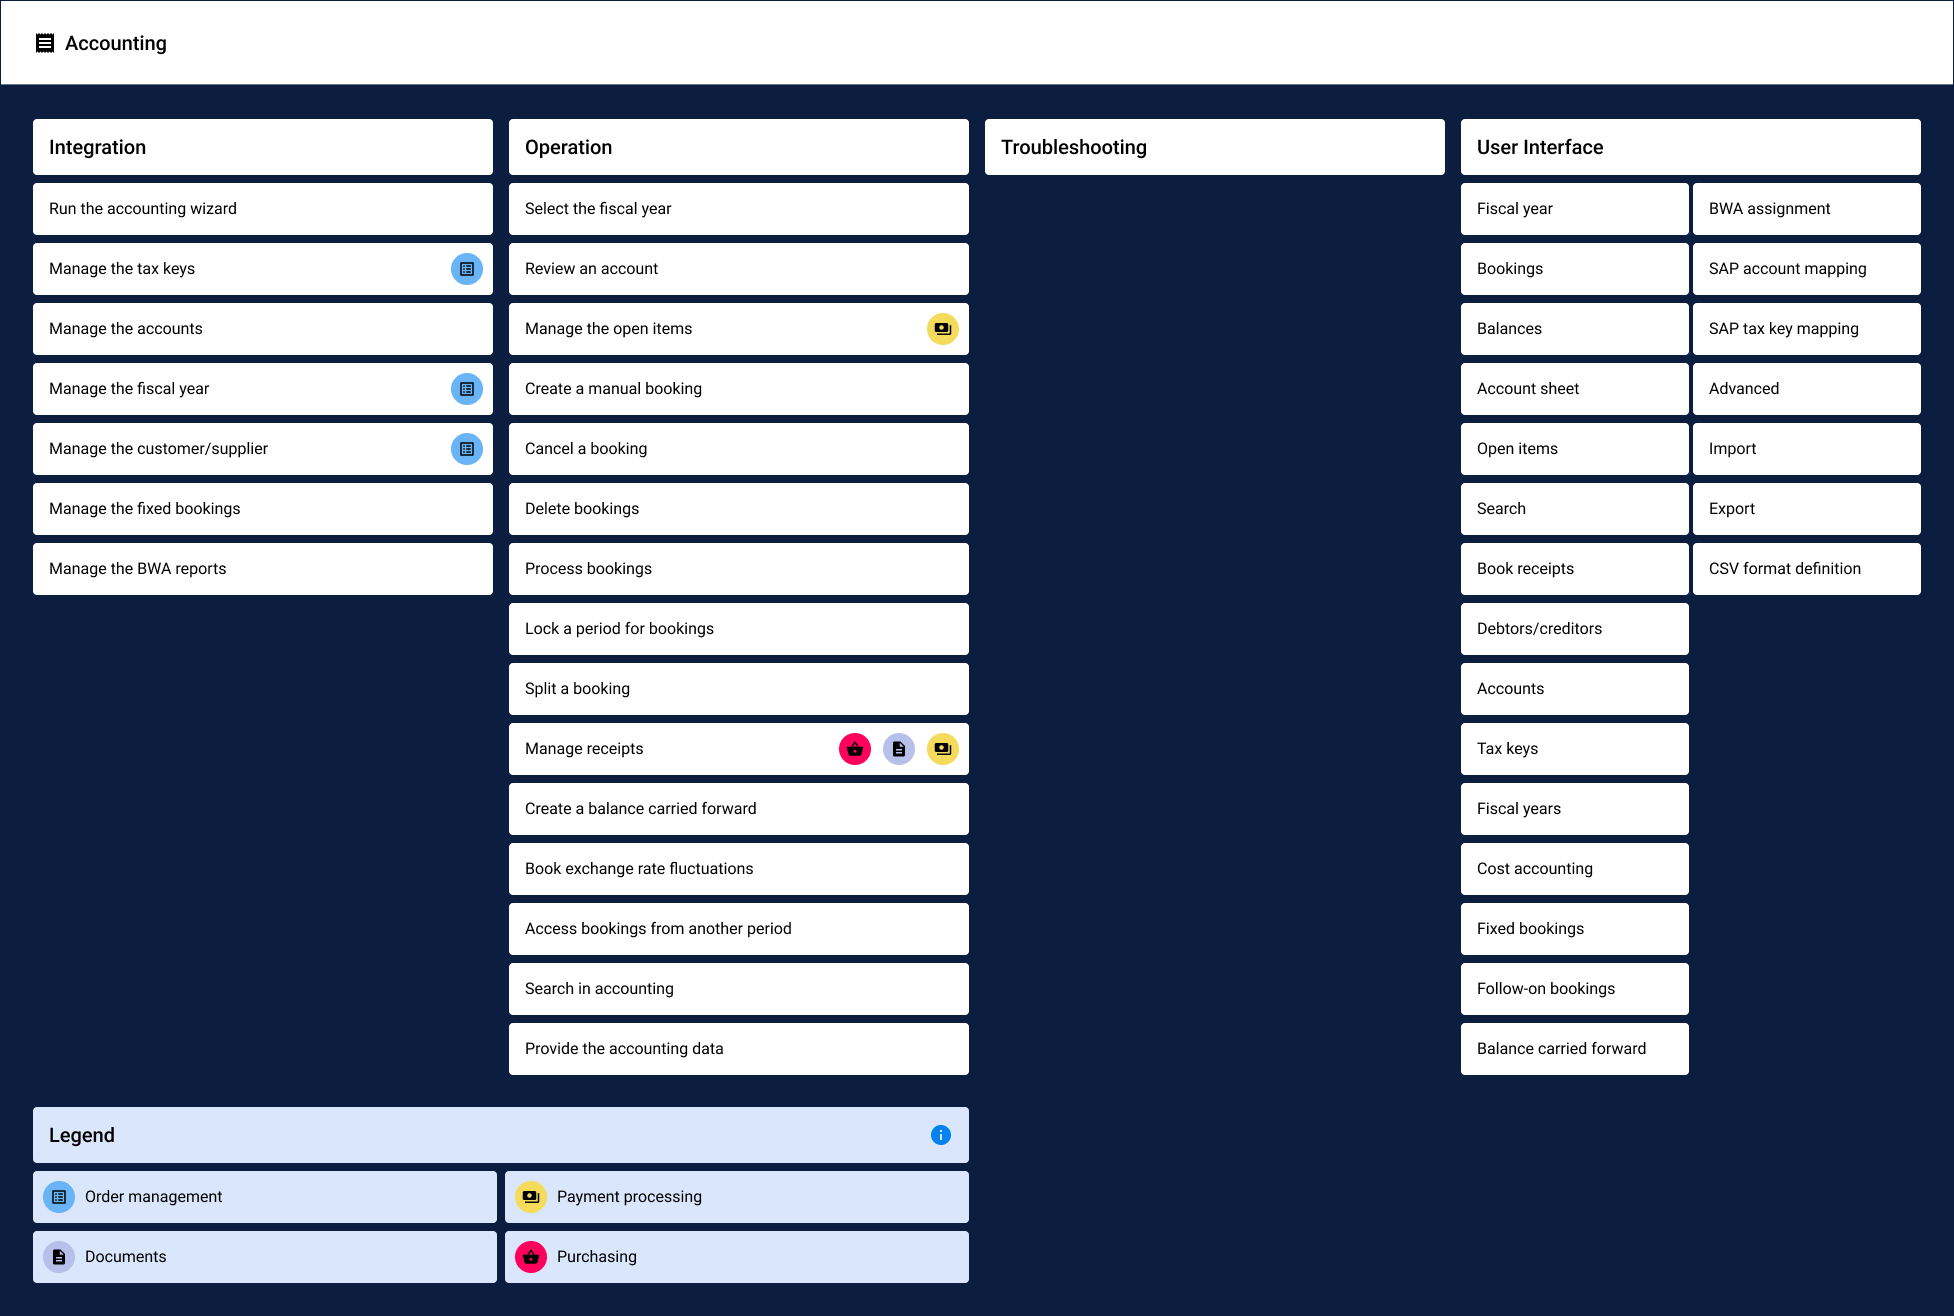
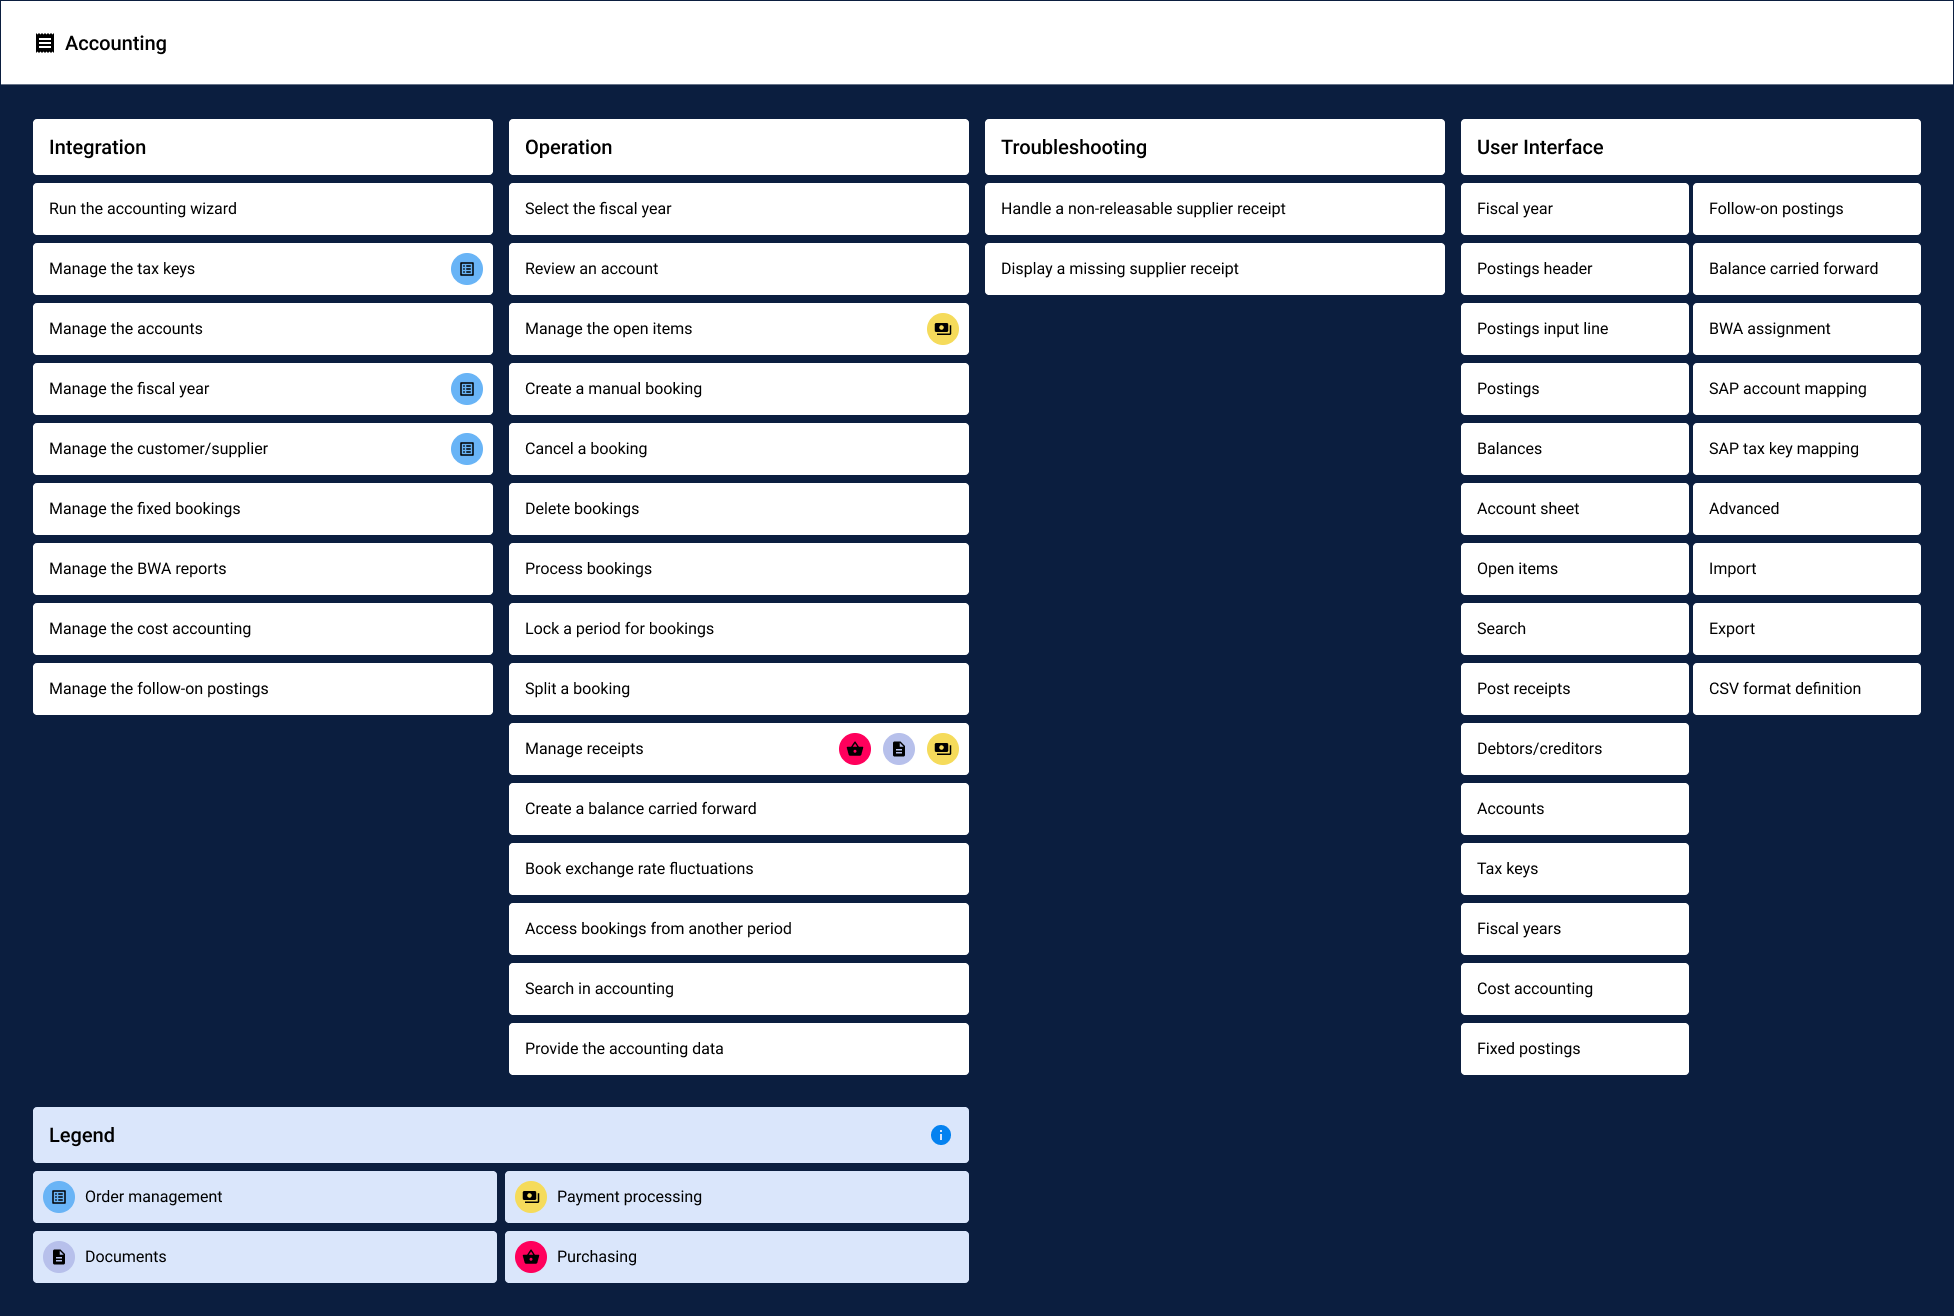
ACD-572
Review UI, Troubleshooting

diff --git a/RetailSuiteAccounting/UserInterface/00_UserInterface.md b/RetailSuiteAccounting/UserInterface/00_UserInterface.md
@@ -7,16 +7,17 @@
 - [Post](./01_Book.md)
 
 
-- [Postings header](01_Header.md)
+- [Postings header](./01_Header.md)
   - [Cash book takeover](./01_Header.md#cash-book-takeover)
   - [Bank data takeover](./01_Header.md#bank-data-takeover)
+    - [Split posting](./01_Header.md#split-posting)
   - [Process](./01_Header.md#process)
   - [Delete](./01_Header.md#delete)
   - [Lock months](./01_Header.md#lock-months)
   - [Balance carried forward](./01_Header.md#balance-carried-forward)
   - [Foreign currency wizard](./01_Header.md#foreign-currency-wizard)
   - [Supplier receipts](./01_Header.md#supplier-receipts)
-    - [Acquire a receipt](./01_Header.md#acquire-a-receipt)
+    - [Acquire a supplier receipt](./01_Header.md#acquire-a-supplier-receipt)
     - [Overview](./01_Header.md#overview)
     - [Financial accounting takeover](./01_Header.md#financial-accounting-takeover)
   - [Account balance](./01_Header.md#account-balance)
@@ -31,13 +32,13 @@
   - [Debtors/creditors](./01_Header.md#debtorscreditors)
 
 
-- [Postings input line](01_InputLine.md)
-  - [Set amount 1](01_InputLine.md#set-amount-1)
-  - [Set amount 2](01_InputLine.md#set-amount-2)
-  - [Split posting](01_InputLine.md#split-posting)
-  - [Attached document](01_InputLine.md#attached-document)
-  - [Attach document](01_InputLine.md#attach-document)
-    - [Upload file](01_InputLine.md#upload-file)
+- [Postings input line](./01_InputLine.md)
+  - [Set amount 1](./01_InputLine.md#set-amount-1)
+  - [Set amount 2](./01_InputLine.md#set-amount-2)
+  - [Split posting](./01_InputLine.md#split-posting)
+  - [Attached document](./01_InputLine.md#attached-document)
+  - [Attach document](./01_InputLine.md#attach-document)
+    - [Upload file](./01_InputLine.md#upload-file)
 
 
 - [POSTINGS](./01a_Bookings.md)
@@ -68,27 +69,28 @@
 - [DEBTORS/CREDITORS](./02a_DebtorsCreditors.md)
 
   - [Customer/supplier list](./02a_DebtorsCreditors.md#customersupplier-list)
+    - [Customer/supplier context menu](./02a_DebtorsCreditors.md#customersupplier-context-menu)
 
   - [Create customer/supplier](./02a_DebtorsCreditors.md#create-customersupplier)
-    - [Address/contact](./02a_DebtorsCreditors.md#addresscontact-1)
+    - [Address/contact](./02a_DebtorsCreditors.md#addresscontact)
     - [Delivery addresses](./02a_DebtorsCreditors.md#delivery-addresses)
+    - [Invoicing](./02a_DebtorsCreditors.md#invoicing)
+    - [Additional fields](./02a_DebtorsCreditors.md#additional-fields)
+    - [Drop shipping](./02a_DebtorsCreditors.md#drop-shipping)
+    - [CRM information](./02a_DebtorsCreditors.md#crm-information)
+    - [Notes](./02a_DebtorsCreditors.md#notes)
+
+  - [Customer/supplier "Number"](./02a_DebtorsCreditors.md#customersupplier-number)
+    - [Address/contact](./02a_DebtorsCreditors.md#addresscontact-1)
+    - [Further addresses](./02a_DebtorsCreditors.md#further-addresses)
     - [Invoicing](./02a_DebtorsCreditors.md#invoicing-1)
     - [Additional fields](./02a_DebtorsCreditors.md#additional-fields-1)
-    - [Drop shipping](./02a_DebtorsCreditors.md#drop-shipping-1)
-    - [CRM information](./02a_DebtorsCreditors.md#crm-information-1)
-    - [Notes](./02a_DebtorsCreditors.md#notes-1)
-
-  - [Customer/supplier (number)](./02a_DebtorsCreditors.md#customersupplier-number)
-    - [Address/contact](./02a_DebtorsCreditors.md#addresscontact-2)
-    - [Further addresses](./02a_DebtorsCreditors.md#further-addresses)
-    - [Invoicing](./02a_DebtorsCreditors.md#invoicing-2)
-    - [Additional fields](./02a_DebtorsCreditors.md#additional-fields-2)
     - [Content](./02a_DebtorsCreditors.md#content)
     - [Stock history](./02a_DebtorsCreditors.md#stock-history)
     - [Statistics](./02a_DebtorsCreditors.md#statistics)
-    - [Drop shipping](./02a_DebtorsCreditors.md#drop-shipping-2)
-    - [CRM information](./02a_DebtorsCreditors.md#crm-information-2)
-    - [Notes](./02a_DebtorsCreditors.md#notes-2)
+    - [Drop shipping](./02a_DebtorsCreditors.md#drop-shipping-1)
+    - [CRM information](./02a_DebtorsCreditors.md#crm-information-1)
+    - [Notes](./02a_DebtorsCreditors.md#notes-1)
 
   - [Loyalty cards](./02a_DebtorsCreditors.md#loyalty-cards)
 
@@ -102,14 +104,14 @@
 
 - [COST ACCOUNTING](./02e_CostAccounting.md)
   - [Cost center](./02e_CostAccounting.md#cost-center)
-    - [Allocation table](./02e_CostAccounting.md#cost-unit#allocation-table)
-  - [Cost unit](./02e_CostAccounting.md#cost-unit)
-    - [Select address](./02e_CostAccounting.md#cost-unit#select-address)
-    - [ProfitCenter](./02e_CostAccounting.md#cost-unit#profitCenter)
-  - [Print cost center/unit](./02e_CostAccounting.md#cost-unit#print-cost-centerunit)
+  - [Cost object](./02e_CostAccounting.md#cost-object)
+  - [Print cost center/object](./02e_CostAccounting.md#print-cost-centerobject)
+    - [Allocation table](./02e_CostAccounting.md#allocation-table)
+    - [Select address](./02e_CostAccounting.md#select-address)
+    - [ProfitCenter](./02e_CostAccounting.md#profitcenter)
 
 - [FIXED POSTINGS](./02f_FixedBookings.md)
-  - [Fixed posting batch name](./02f_FixedBookings.md#fixed-booking-batch-name)
+  - [Fixed posting batch name](./02f_FixedBookings.md#fixed-booking--batch)
 
 - [FOLLOW-ON POSTINGS](./02g_FollowOnBookings.md)
 
@@ -117,10 +119,10 @@
 
 - [BWA ASSIGNMENT](./02i_BWAAssignment.md)
   - [Copy from predefined system report](./02i_BWAAssignment.md#copy-from-predefined-system-report)
-  - [Create BWA](./02i_BWAAssignment.md#create-BWA)
-  - [Edit BWA](./02i_BWAAssignment.md#edit-BWA)
-  - [Create report lines](./02i_BWAAssignment.md#create-report-lines)
-  - [Edit report lines](./02i_BWAAssignment.md#edit-report-lines)
+  - [Create report](./02i_BWAAssignment.md#create-report)
+  - [Edit "Report ID"](./02i_BWAAssignment.md#edit-report-id)
+  - [Create report line](./02i_BWAAssignment.md#create-report-line)
+  - [Edit "Report line ID"](./02i_BWAAssignment.md#edit-report-line-id)
 
 - [SAP ACCOUNT MAPPING](./02j_SAPAccountMapping.md)
 
@@ -133,30 +135,81 @@
 
 - [IMPORT](./03a_Import.md)
   - [Compeso 7.X](./03a_Import.md#compeso-7x)
+    - [Compeso 7.X: Step 1](./03a_Import.md#compeso-7X-step-1)
+    - [Compeso 7.X: Step 2](./03a_Import.md#compeso-7x-step-2)
   - [CSV](./03a_Import.md#csv)
+    - [CSV: Step 1](./03a_Import.md#csv-step-1)
+    - [CSV: Step 2](./03a_Import.md#csv-step-2)
+    - [CSV: Step 3](./03a_Import.md#csv-step-3)
+    - [CSV: Step 4](./03a_Import.md#csv-step-4)
+    - [CSV: Step 5](./03a_Import.md#csv-step-5)
   - [CSV LS-Motor](./03a_Import.md#csv-ls-motor)
+    - [CSV LS-Motor: Step 1](./03a_Import.md#csv-ls-motor-step-1)
+    - [CSV LS-Motor: Step 2](./03a_Import.md#csv-ls-motor-step-2)
   - [GDI](./03a_Import.md#gdi)
+    - [GDI: Step 1](./03a_Import.md#gdi-step-1)
+    - [GDI: Step 2](./03a_Import.md#gdi-step-2)
+    - [GDI: Step 3](./03a_Import.md#gdi-step-3)
+    - [GDI: Step 4](./03a_Import.md#gdi-step-4)
+    - [GDI: Step 5](./03a_Import.md#gdi-step-5)
   - [openTRANS](./03a_Import.md#opentrans)
+    - [openTRANS: Step 1](./03a_Import.md#opentrans-step-1)
+    - [openTRANS: Step 2](./03a_Import.md#opentrans-step-2)
   - [Schilling Accounting](./03a_Import.md#schilling-accounting)
+    - [Schilling Accounting: Step 1](./03a_Import.md#schilling-accounting-step-1)
+    - [Schilling Accounting: Step 2](./03a_Import.md#schilling-accounting-step-2)
 
-  - [Import/export definitions](./03a_Import.md#importexport-definitions)
+    - [Import/export definitions](./03a_Import.md#importexport-definitions)
+    - [Select file](./03a_Import.md#select-file)
 
 - [EXPORT](./03b_Export.md)
   - [BMD](./03b_Export.md#bmd)
+    - [BMD: Step 1](./03b_Export.md#bmd-step-1)
+    - [BMD: Step 2](./03b_Export.md#bmd-step-2)
+    - [BMD: Step 3](./03b_Export.md#bmd-step-3)
     - [BMD tax mapping](./03b_Export.md#bmd-tax-mapping)
   - [CSV](./03b_Export.md#csv)
+    - [CSV: Step 1](./03b_Export.md#csv-step-1)
+    - [CSV: Step 2](./03b_Export.md#csv-step-2)
+    - [CSV: Step 3](./03b_Export.md#csv-step-3)
   - [DATEV CSV](./03b_Export.md#datev-csv)
+    - [DATEV CSV: Step 1](./03b_Export.md#datev-csv-step-1)
+    - [DATEV CSV: Step 2](./03b_Export.md#datev-csv-step-2)
+    - [DATEV CSV: Step 3](./03b_Export.md#datev-csv-step-3)
   - [GDI](./03b_Export.md#gdi)
-  - [GDPDU export](./03b_Export.md#gdpdu-export)
+    - [GDI: Step 1](./03b_Export.md#gdi-step-1)
+    - [GDI: Step 2](./03b_Export.md#gdi-step-2)
+    - [GDI: Step 3](./03b_Export.md#gdi-step-3)
+  - [GDPdU export](./03b_Export.md#gdpdu-export)
+    - [GDPdU export: Step 1](./03b_Export.md#gdpdu-export-step-1)
+    - [GDPdU export: Step 2](./03b_Export.md#gdpdu-export-step-2)
+    - [GDPdU export: Step 3](./03b_Export.md#gdpdu-export-step-3)
   - [Open items](./03b_Export.md#open-items)
-  - [Balance lists](./03b_Export.md#balance-lists)
+    - [Open items: Step 1](./03b_Export.md#open-items-step-1)
+    - [Open items: Step 2](./03b_Export.md#open-items-step-2)
+    - [Open items: Step 3](./03b_Export.md#open-items-step-3)
+  - [Balance list](./03b_Export.md#balance-list)
+    - [Balance list: Step 1](./03b_Export.md#balance-list-step-1)
+    - [Balance list: Step 2](./03b_Export.md#balance-list-step-2)
+    - [Balance list: Step 3](./03b_Export.md#balance-list-step-3)
   - [SALDEN.DAT](./03b_Export.md#salden-dat)
+    - [SALDEN.DAT: Step 1](./03b_Export.md#saldendat-step-1)
+    - [SALDEN.DAT: Step 2](./03b_Export.md#saldendat-step-2)
+    - [SALDEN.DAT: Step 3](./03b_Export.md#saldendat-step-3)
   - [SAP](./03b_Export.md#sap)
+    - [SAP: Step 1](./03b_Export.md#sap-step-1)
+    - [SAP: Step 2](./03b_Export.md#sap-step-2)
+    - [SAP: Step 3](./03b_Export.md#sap-step-3)
   - [Varial](./03b_Export.md#varial)
+    - [Varial: Step 1](./03b_Export.md#varial-step-1)
+    - [Varial: Step 2](./03b_Export.md#varial-step-2)
+    - [Varial: Step 3](./03b_Export.md#varial-step-3)
   - [Zahlwerk](./03b_Export.md#zahlwerk)
-
+    - [Zahlwerk: Step 1](./03b_Export.md#zahlwerk-step-1)
+    - [Zahlwerk: Step 2](./03b_Export.md#zahlwerk-step-2)
+    - [Zahlwerk: Step 3](./03b_Export.md#zahlwerk-step-3)
   - [Import/export definitions](./03a_Import.md#importexport-definitions)
 
-- [CSV FORMAT DEF.](./03c_CSVFormatDef.md)
-  - [New import/export definition](./03a_Import.md#new-importexport-definition)
-  - [Rename import/export definition](./03a_Import.md#rename-importexport-definition)
+- [CSV format definition](./03c_CSVFormatDef.md)
+  - [New import/export definition](./03c_CSVFormatDef.md#new-importexport-definition)
+  - [Rename import/export definition](./03c_CSVFormatDef.md#rename-importexport-definition)

diff --git a/RetailSuiteAccounting/UserInterface/01_Header.md b/RetailSuiteAccounting/UserInterface/01_Header.md
@@ -186,11 +186,9 @@ An individual posting from the cash book can be selected and partially edited be
   Click this button to clear all input line fields.
 
 - [SPLIT]    
-  Click this button to split the selected posting.
+  Click this button to split the selected posting. The *Split posting* window is displayed, see [Split posting](#split-posting).
 
-  [comment]: <> (The window "Split posting" is displayed, see ... hinzufügen? Splitbuchungfunktion scheint hier nicht zu funktionieren.  Bug? Fenster trotzdem hinzufügen?)
-
-  [comment]: <> (Fehlermeldungen: beim klicking auf SPLIT -> Unbekannte Bankbuchung. Wenn man versucht, eine Splitbuchung zu machen -> Meldung: Gebucht und in rot "Umsatz, GegKonto, Datum oder Konto leer! Ungültiges Datum!" Alle Felder sind aber richtig ausgefüllt, jetzt zeigen sie aber alle 0, außer Beleg 1, GegKonto und Text)
+  [comment]: <> (Splitbuchungfunktion scheint hier nicht zu funktionieren. Bug? Fehlermeldungen: beim klicking auf SPLIT -> Unbekannte Bankbuchung. Wenn man versucht, eine Splitbuchung zu machen -> Meldung: Gebucht und in rot "Umsatz, GegKonto, Datum oder Konto leer! Ungültiges Datum!" Alle Felder sind aber richtig ausgefüllt, jetzt zeigen sie aber alle 0, außer Beleg 1, GegKonto und Text)
 
 - [SAVE]    
   Click this button to take over the selected postings. The button is only unlocked if at least one posting is selected.
@@ -198,6 +196,13 @@ An individual posting from the cash book can be selected and partially edited be
 - [CANCEL]    
   Click this button to cancel any changes. A confirmation window is displayed. Click the [OK] button to close the *Cash book takeover* window.
 
+### Split posting
+
+*Accounting > Post > Button EDIT > Menu entry Cash book takeover > Button SPLIT*
+
+For a detailed description of the contained elements and the corresponding functions, see [Split posting](./01_InputLine.md#split-posting).
+
+[comment]: <> (HG: H3, d.h. in TOC, hier oder weiter unten und H4?)
 
 ## Bank data takeover  
 
@@ -877,6 +882,7 @@ The input line is unlocked if at least one checkbox is selected.
 
 ![Attached document](../../Assets/Screenshots/RetailSuiteAccounting/Book/Bookings/AttachedDocument.png "[Attached document]")
 
+> [Info] This window can also be accessed via the [ACCOUNT SHEET](./01c_AccountSheet.md#attached-document) tab in the user interface.
 
 **/Folder/Document file name Page x**  
 This path displays the file location, name and page.

diff --git a/RetailSuiteAccounting/UserInterface/02i_BWAAssignment.md b/RetailSuiteAccounting/UserInterface/02i_BWAAssignment.md
@@ -74,8 +74,6 @@ Click the drop-down list to select the predefined system report to be copied. Th
 
 ## Create report
 
-[comment]: <> (Header Namensänderung anpassen in TOC)
-
 *Accounting > Settings > Tab BWA ASSIGNMENT > Button Add*
 
 ![Create BWA report](../../Assets/Screenshots/RetailSuiteAccounting/Settings/BWAAssignment/CreateBWAReport.png "[Create BWA report]")
@@ -95,8 +93,6 @@ Enter a report name.
 
 
 ## Edit "Report ID"
-
-[comment]: <> (Header Namensänderung anpassen in TOC)
 
 *Accounting > Settings > Tab BWA ASSIGNMENT > Select accounting report*
 
@@ -184,8 +180,6 @@ If no report line has been yet added, the notice *No report lines created. Use +
 
 ## Create report line
 
-[comment]: <> (Header Namensänderung anpassen in TOC)
-
 *Accounting > Settings > Tab BWA ASSIGNMENT > Select accounting report > Button Add*
 
 ![Create report lines](../../Assets/Screenshots/RetailSuiteAccounting/Settings/BWAAssignment/CreateReportLines.png "[Create report lines]")
@@ -213,7 +207,7 @@ If no report line has been yet added, the notice *No report lines created. Use +
   - **New page**  
     Select this option to start a new page in the output file.
 
-[comment]: <> (Output heißt Print im Bericht/Report. Etwas verwirrend.)
+[comment]: <> (Output heißt Print im Bericht/Report. Verwirrend.)
 
 - *Chart type*  
   Click the drop-down list to select the desired chart type for the current line. This drop-down list is mandatory. The following options are available:  
@@ -257,7 +251,6 @@ Click the drop-down list to select the desired function for the current line. Th
 
 ## Edit "Report line ID"
 
-[comment]: <> (Header Namensänderung anpassen in TOC)
 
 *Accounting > Settings > Tab BWA ASSIGNMENT > Select accounting report > Select accounting report line > Button Edit*
 

diff --git a/RetailSuiteAccounting/UserInterface/02a_DebtorsCreditors.md b/RetailSuiteAccounting/UserInterface/02a_DebtorsCreditors.md
@@ -1819,8 +1819,6 @@ The list displays all additional fields. Depending on the settings, the displaye
 
 Click the [CREATE] button to display the *Add* section or select the checkbox of an additional field to display the *Edit* section. The fields in the *Add* and the *Edit* section are identical.
 
-[comment]: <> (Bilder ändern sich nach Type? Alle abgebildet? Mehrere Bilder Grouppieren? -> Snagit RS HG)
-
 - *Field ID*  
   Enter the field ID. The field ID must contain at least two characters. Only a-z und 0-9 can be used.
 
@@ -1905,8 +1903,6 @@ Click the [CREATE] button to display the *Add* section or select the checkbox of
 *Accounting > Settings > Tab DEBTORS/CREDITORS > Button Back*
 
 ![Loyalty cards](../../Assets/Screenshots/RetailSuiteAccounting/Settings/CustomerSupplier/LoyaltyCards.png "[Loyalty cards]")
-
-[comment]: <> (HG: Ab hier Korrektur gelesen?)
 
 **Loyalty card printing**
 

diff --git a/RetailSuiteAccounting/UserInterface/02b_Accounts.md b/RetailSuiteAccounting/UserInterface/02b_Accounts.md
@@ -168,7 +168,7 @@ The input fields below allow to create, edit or delete accounts. For detailed in
     The account is configured for income received as a result of transactions in foreign currencies and exchange rate differences.
 
 
-[comment]: <> (FS: Bitte Inhalt der Funktionen prüfen! Info fehlt: Vorverrechnungskonto)
+[comment]: <> (FS: Bitte Inhalt der Funktionen prüfen!)
 
 - *Collective account*  
   Enter the account number range for the accounts whose transactions will be registered in the collective account. The drop-down list is only displayed if the **(DA) Debtor collective account** or the **(CA) Creditor collective account** option is selected in the *Special features* drop-down list.

diff --git a/RetailSuiteAccounting/UserInterface/03a_Import.md b/RetailSuiteAccounting/UserInterface/03a_Import.md
@@ -564,7 +564,7 @@ For a detailed description of this window and the corresponding functions, see [
 
 ![Select file](../../Assets/Screenshots/RetailSuiteAccounting/Settings/CustomerSupplier/SelectFile.png "[Select file]")
 
-> [Info] This window can also be accessed via the [Debtors/creditors](./02a_DebtorsCreditors.md#select-file) tab in the user interface.
+> [Info] This window can also be accessed via the [DEBTORS/CREDITORS](./02a_DebtorsCreditors.md#select-file) tab in the user interface.
 
 
 - *Name*  

diff --git a/RetailSuiteAccounting/UserInterface/01_Book.md b/RetailSuiteAccounting/UserInterface/01_Book.md
@@ -16,5 +16,5 @@ The *Post* User Interface is composed of the following tabs:
 
 
 Additionally, the header and the input line of all tabs in the *Post* menu entry are identical and described in the following chapters:
-- [Header](./01_Header.md)
-- [Input line](./01_InputLine.md)
+- [Postings header](./01_Header.md)
+- [Postings input line](./01_InputLine.md)

diff --git a/RetailSuiteAccounting/Troubleshooting/00_Troubleshooting.md b/RetailSuiteAccounting/Troubleshooting/00_Troubleshooting.md
@@ -1,3 +1,5 @@
 # Troubleshooting
 
-- [Check the supplier settings](./01_CheckSupplierSettings.md)
+- [Handle a non-releasable supplier receipt](./01_HandleNonReleasableSupplierReceipt.md)
+
+- [Display a missing supplier receipt](./02_DisplayMissingSupplierReceipt.md)
